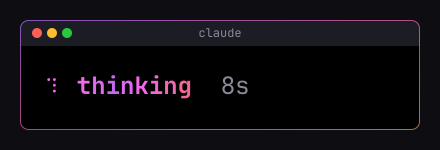
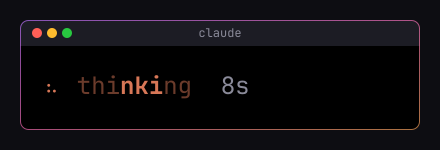
docs(readme): describe the highlight band

Changed region(s): [[0.1773, 0.5067, 0.4432, 0.6667], [0.0886, 0.56, 0.1477, 0.6133], [0.0886, 0.5067, 0.1477, 0.5333]]

diff --git a/README.md b/README.md
@@ -2,7 +2,7 @@
 
 ![calm-spinner](docs/banner.png)
 
-A [Claude Code](https://docs.anthropic.com/en/docs/claude-code) mod that replaces the spinner line shown while Claude works with an animated braille spinner, a label for what it is doing with a moving color gradient, and the elapsed time.
+A [Claude Code](https://docs.anthropic.com/en/docs/claude-code) mod that replaces the spinner line shown while Claude works with an animated braille spinner, a label for what it is doing with a bright band sweeping across it, and the elapsed time.
 
 ## Before
 
@@ -21,7 +21,7 @@ The stock line rotates through whimsical verbs and spells out the effort level:
 | requesting | ⠹ waiting |
 | tool input / tool use | ⠹ working |
 
-The spinner steps through ten braille frames, one every 100 ms. The label is drawn one character at a time in colors swept across a violet, pink and orange band, shifting every 100 ms so the gradient flows across the word. When Claude Code overrides the spinner with a message of its own, that message gets the same treatment.
+The spinner steps through ten braille frames, one every 100 ms. Both are drawn in the `claude` color from your Claude Code theme, so they follow `/theme`. The label is dim except for a bold band three characters wide that moves one character every 100 ms, entering and leaving off the edges of the word. To use another color, set `BASE_COLOR` in `hooks/register.tsx` to any theme key, a named ANSI color such as `magenta` (drawn from your terminal's palette), or a hex value. When Claude Code overrides the spinner with a message of its own, that message gets the same treatment.
 
 ## Install
 
@@ -73,5 +73,5 @@ npx -p typescript tsc -p . --noEmit
 | `.claude-plugin/marketplace.json` | Makes the repository installable with `/plugin install` |
 | `hooks/hooks.json` | Points at the hooks module |
 | `hooks/register.tsx` | The `ui.render` hook for `Spinner` and the turn timer |
-| `hooks/register.test.ts` | Tests for the time format, gradient and spinner frames |
+| `hooks/register.test.ts` | Tests for the time format, highlight band and spinner frames |
 | `types/index.d.ts` | The `$.state` contract |
